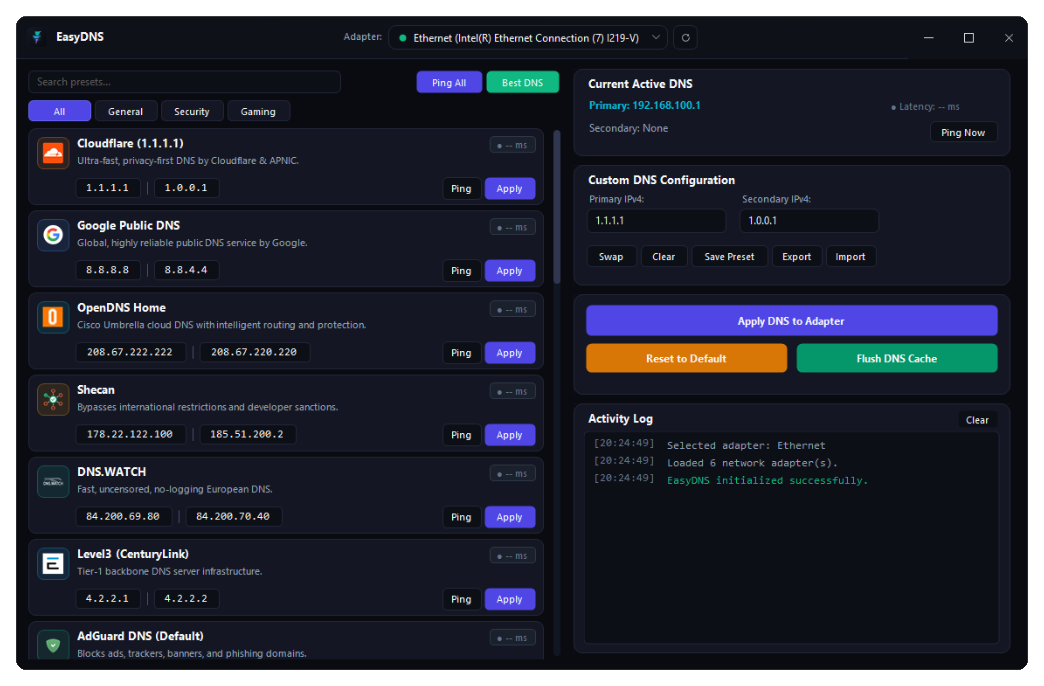
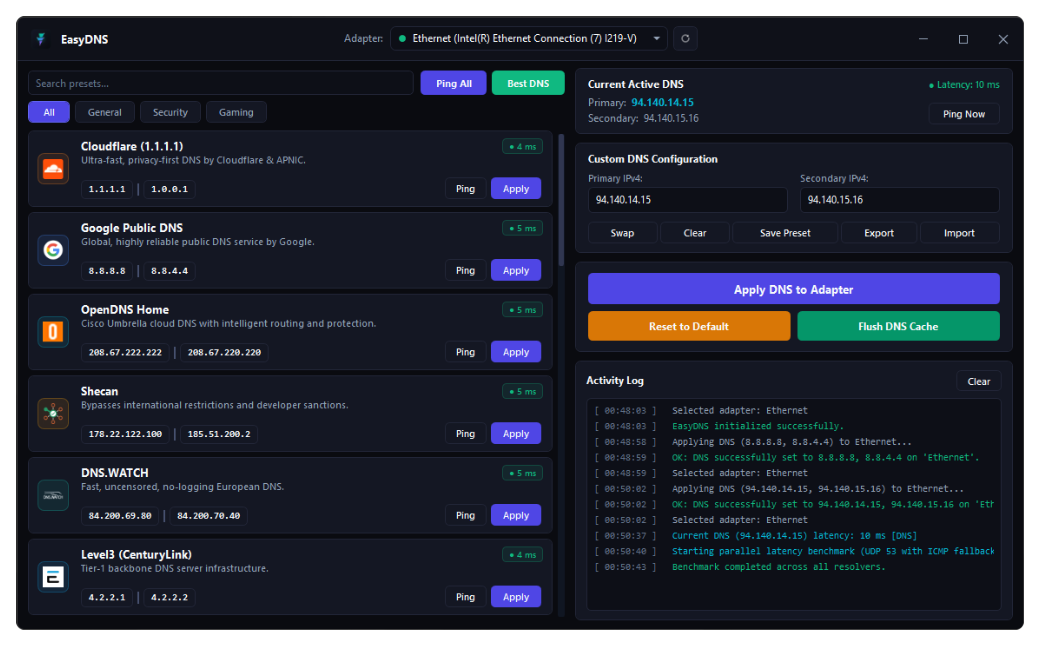
docs(readme): rewrite technical documentation and refresh application preview
- Update README.md with clean architecture overview and system requirements
- Update technology stack, build prerequisites, and publish commands for .NET 10
- Replace screenshot.png with centered, transparent-background application preview
- Apply sub-pixel anti-aliasing to window borders and rounded corners in screenshot

diff --git a/README.md b/README.md
@@ -1,73 +1,133 @@
-# EasyDNS
+<div align="center">
+  <img src="Resources/app_logo.png" alt="EasyDNS Logo" width="72" height="72" />
+  <h1>EasyDNS</h1>
+  <p>A fast, lightweight, and modern Windows desktop utility for configuring network adapter DNS settings.</p>
 
-EasyDNS is a lightweight Windows desktop utility for configuring network adapter DNS settings. It provides quick switching between popular DNS resolvers, custom DNS management, real-time latency benchmarking, and cache clearing.
+  <p>
+    <a href="https://github.com/Sina-Majd/EasyDNS/releases"><img src="https://img.shields.io/github/v/release/Sina-Majd/EasyDNS?style=flat-square&color=4F46E5" alt="Release" /></a>
+    <img src="https://img.shields.io/badge/.NET-10.0-512BD4?style=flat-square&logo=dotnet&logoColor=white" alt=".NET 10.0" />
+    <img src="https://img.shields.io/badge/Platform-Windows%2010%20%7C%2011-0078D6?style=flat-square&logo=windows&logoColor=white" alt="Platform" />
+    <img src="https://img.shields.io/badge/Architecture-x64-gray?style=flat-square" alt="Architecture" />
+    <img src="https://img.shields.io/badge/Executable%20Size-~1.2%20MB-10B981?style=flat-square" alt="Size" />
+    <a href="LICENSE"><img src="https://img.shields.io/badge/License-MIT-F59E0B?style=flat-square" alt="License" /></a>
+  </p>
+</div>
 
-![EasyDNS Preview](Resources/screenshot.png)
+<br />
+
+<div align="center">
+  <img src="Resources/screenshot.png" alt="EasyDNS Interface Preview" width="860" />
+</div>
+
+<br />
+
+## Overview
+
+**EasyDNS** provides an intuitive interface to manage, benchmark, and apply Domain Name System (DNS) configurations across Windows network adapters. Whether you need lower latency for gaming, enhanced privacy and ad blocking, or reliable fallback servers, EasyDNS lets you switch DNS resolvers with a single click.
+
+---
 
 ## Features
 
-- **DNS Presets**: Preconfigured profiles for major public DNS providers (Cloudflare, Google Public DNS, Quad9, OpenDNS, AdGuard, Control D, NextDNS, and regional/gaming resolvers).
-- **Custom DNS Profiles**: Add, save, and manage custom IPv4 primary and secondary DNS server pairs.
-- **Latency Benchmarking**: Measure response times across all resolvers in parallel to identify the fastest DNS server for your network.
-- **DNS Cache Flushing**: Flush the Windows DNS resolver cache directly via native Windows APIs and `ipconfig`.
-- **Default Restoration**: Restore network adapter DNS settings to default (automatic) with one click.
-- **Adapter Detection**: Automatically detects active physical and wireless network adapters.
+- **Preconfigured DNS Presets**: Built-in profiles for major public and privacy-focused DNS providers:
+  - **General & Privacy**: Cloudflare (1.1.1.1), Google Public DNS, Quad9, OpenDNS Home, Level3.
+  - **Security & Ad Blocking**: AdGuard DNS, Control D, CleanBrowsing, Comodo Secure DNS.
+  - **Gaming & Regional**: Electro DNS, Radar Game, Shecan, 403 Online.
+- **Concurrent Latency Benchmarking**: Measures real-time response times across all resolvers in parallel using lightweight UDP port 53 DNS queries with ICMP fallback.
+- **Fastest DNS Auto-Discovery**: One-click benchmark to automatically test and identify the lowest-latency DNS resolver for your active network connection.
+- **Dual-Stack DNS (IPv4 & IPv6)**: Validates and configures both IPv4 and IPv6 resolver addresses to prevent IPv6 DNS leaks.
+- **Encrypted DNS (DoH)**: Native configuration support for Windows 11 DNS-over-HTTPS.
+- **Custom DNS Profiles**: Add, edit, remove, and organize custom DNS presets with full JSON export and import capabilities.
+- **DNS Resolver Cache Flushing**: Clear the Windows DNS resolver cache immediately via native Windows API (`dnsapi.dll`).
+- **One-Click Default Restoration**: Reset any network adapter back to automatic DHCP DNS assignment instantly.
+- **System Tray Integration**: Minimizes unobtrusively to the system notification area with a context menu for quick preset switching.
+- **Lightweight Standalone Executable**: Packaged as a compact single-file executable (~1.2 MB) requiring zero installation.
+
+---
 
 ## System Requirements
 
-- **Operating System**: Windows 10 or Windows 11 (Windows 7/8 supported with .NET Framework 4.8)
-- **Runtime**: .NET 8.0 Desktop Runtime (or .NET Framework 4.8)
-- **Permissions**: Administrator privileges (required by Windows to modify network interface configurations)
+| Requirement | Specification |
+| :--- | :--- |
+| **Operating System** | Windows 10 (Version 2004 / Build 19041 or higher) or Windows 11 (64-bit) |
+| **Runtime** | [.NET 10.0 Desktop Runtime](https://dotnet.microsoft.com/download/dotnet/10.0) |
+| **Permissions** | Administrator privileges (required by Windows to modify network adapter settings) |
 
-## Usage
+---
 
-1. Download the latest `EasyDNS.exe` from the Releases section.
-2. Launch `EasyDNS.exe` and grant administrative permissions when prompted by UAC.
-3. Select the target network adapter from the adapter list.
-4. Select a preset or enter custom DNS addresses and click **Apply DNS**.
+## Getting Started
+
+### Installation
+EasyDNS is portable and does not require an installer:
+
+1. Download the latest `EasyDNS.exe` from the [Releases](https://github.com/Sina-Majd/EasyDNS/releases) page.
+2. Place the executable in any folder of your choice.
+3. Launch `EasyDNS.exe` and confirm the User Account Control (UAC) administrative prompt.
+
+### Basic Workflow
+1. **Select Network Adapter**: Use the dropdown at the top to choose the network adapter you want to configure. An operational indicator dot confirms the connection status.
+2. **Benchmark Resolvers**: Click **Ping All** to test response times across all presets, or click **Best DNS** to automatically select the fastest responding provider.
+3. **Apply Preset**: Click **Apply** on any preset card, or enter custom addresses under **Custom DNS Configuration** and click **Apply DNS to Adapter**.
+4. **Restore Defaults**: Click **Reset to Default** at any time to return the adapter to automatic DHCP DNS assignment.
+
+---
+
+## Configuration & Data Storage
+
+Custom DNS presets and user preferences are saved locally as JSON in your user profile:
+
+```
+%LocalAppData%\EasyDNS\presets.json
+```
+
+> **Note**: If you upgraded from an earlier version, your existing `custom_presets.xml` configuration is automatically detected and migrated on first launch.
+
+---
 
 ## Building from Source
 
 ### Prerequisites
+- [.NET 10.0 SDK](https://dotnet.microsoft.com/download/dotnet/10.0) (or Visual Studio 2026 / JetBrains Rider with .NET desktop development workload).
+- Windows 10 or 11 (x64).
 
-- .NET 8.0 SDK (or Visual Studio 2022 with **.NET desktop development** workload).
+### Build Commands
 
-### Build Instructions
+```bash
+# Clone the repository
+git clone https://github.com/Sina-Majd/EasyDNS.git
+cd EasyDNS
 
-To compile from the command line using the .NET CLI:
-
-```cmd
+# Compile the solution in Release mode
 dotnet build EasyDNS.csproj -c Release
+
+# Execute the automated unit test suite
+dotnet test EasyDNS.Tests/EasyDNS.Tests.csproj -c Release
+
+# Publish a single-file standalone executable
+dotnet publish EasyDNS.csproj -c Release -f net10.0-windows -r win-x64 -p:PublishSingleFile=true -p:DebugType=None -p:DebugSymbols=false --self-contained false -o bin/Publish
 ```
 
-To publish a standalone single-file 64-bit executable:
+Alternatively, you can run the included automation scripts:
+- `build.bat`: Compiles the project and runs the test suite.
+- `publish.bat`: Builds and publishes the optimized standalone executable to `bin\Publish\EasyDNS.exe`.
 
-```cmd
-dotnet publish EasyDNS.csproj -c Release -f net8.0-windows -r win-x64 -p:PublishSingleFile=true -p:DebugType=None -p:DebugSymbols=false --self-contained false -o bin\Publish
-```
+---
 
-Alternatively, run the included batch scripts:
-- `build.bat`: Quick compile and test runner.
-- `publish.bat`: Automated standalone release publisher.
+## Architecture & Technology Stack
 
-The compiled executable will be output to:
-- Standalone Release: `bin\Publish\EasyDNS.exe`
-- .NET 8 Output: `bin\Release\net8.0-windows\EasyDNS.exe`
-- .NET 4.8 Output: `bin\Release\net48\EasyDNS.exe`
+EasyDNS is organized using Clean Architecture principles and the Model-View-ViewModel (MVVM) pattern:
 
-## Storage & Configuration
+- **Presentation Layer**: Windows Presentation Foundation (WPF) with DirectX hardware acceleration and custom dark styling.
+- **ViewModel Layer**: Reactive state management built on `CommunityToolkit.Mvvm`.
+- **Core Domain**: Protocol-agnostic models, contracts, and IP address validation (`IpValidator`).
+- **Infrastructure Layer**:
+  - Native Windows IP Helper API (`iphlpapi.dll`) and PowerShell CIM for network adapter configuration.
+  - Asynchronous UDP socket testing with ICMP ping fallback for latency measurements.
+  - Compile-time source-generated JSON serialization via `System.Text.Json`.
+- **Automated Testing**: Comprehensive unit test suite covering validation logic, preset serialization, and latency benchmarking.
 
-Custom DNS presets are stored locally as XML in the user's application data directory:
-```
-%LocalAppData%\EasyDNS\custom_presets.xml
-```
-
-## Technical Implementation
-
-- **DNS Configuration**: Uses Windows Management Instrumentation (WMI via `Win32_NetworkAdapterConfiguration`) with fallback to `netsh interface ipv4`.
-- **Cache Clearing**: Invokes `DnsFlushResolverCache` from `dnsapi.dll` and `ipconfig /flushdns`.
-- **Latency Testing**: Asynchronous ICMP ping requests through `System.Net.NetworkInformation.Ping`.
+---
 
 ## License
 
-This project is licensed under the MIT License.
+This project is licensed under the [MIT License](LICENSE).
